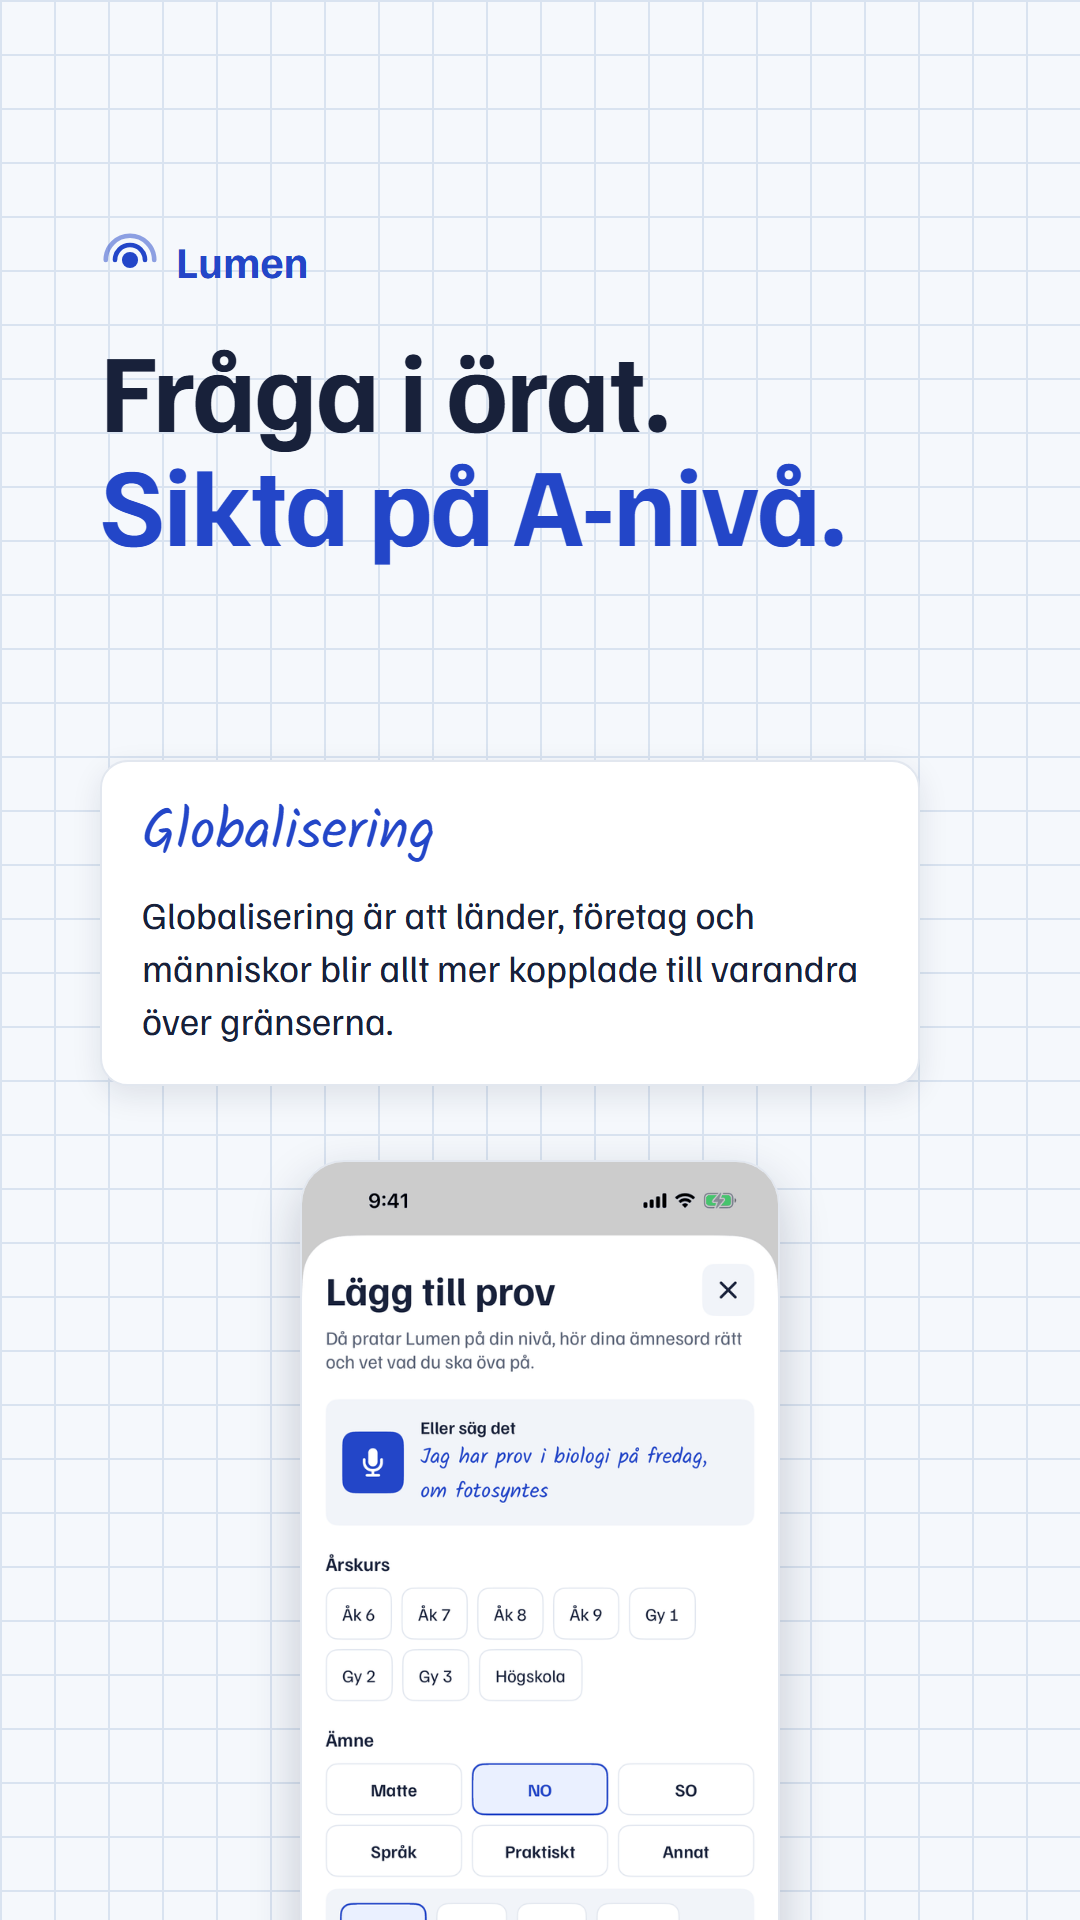
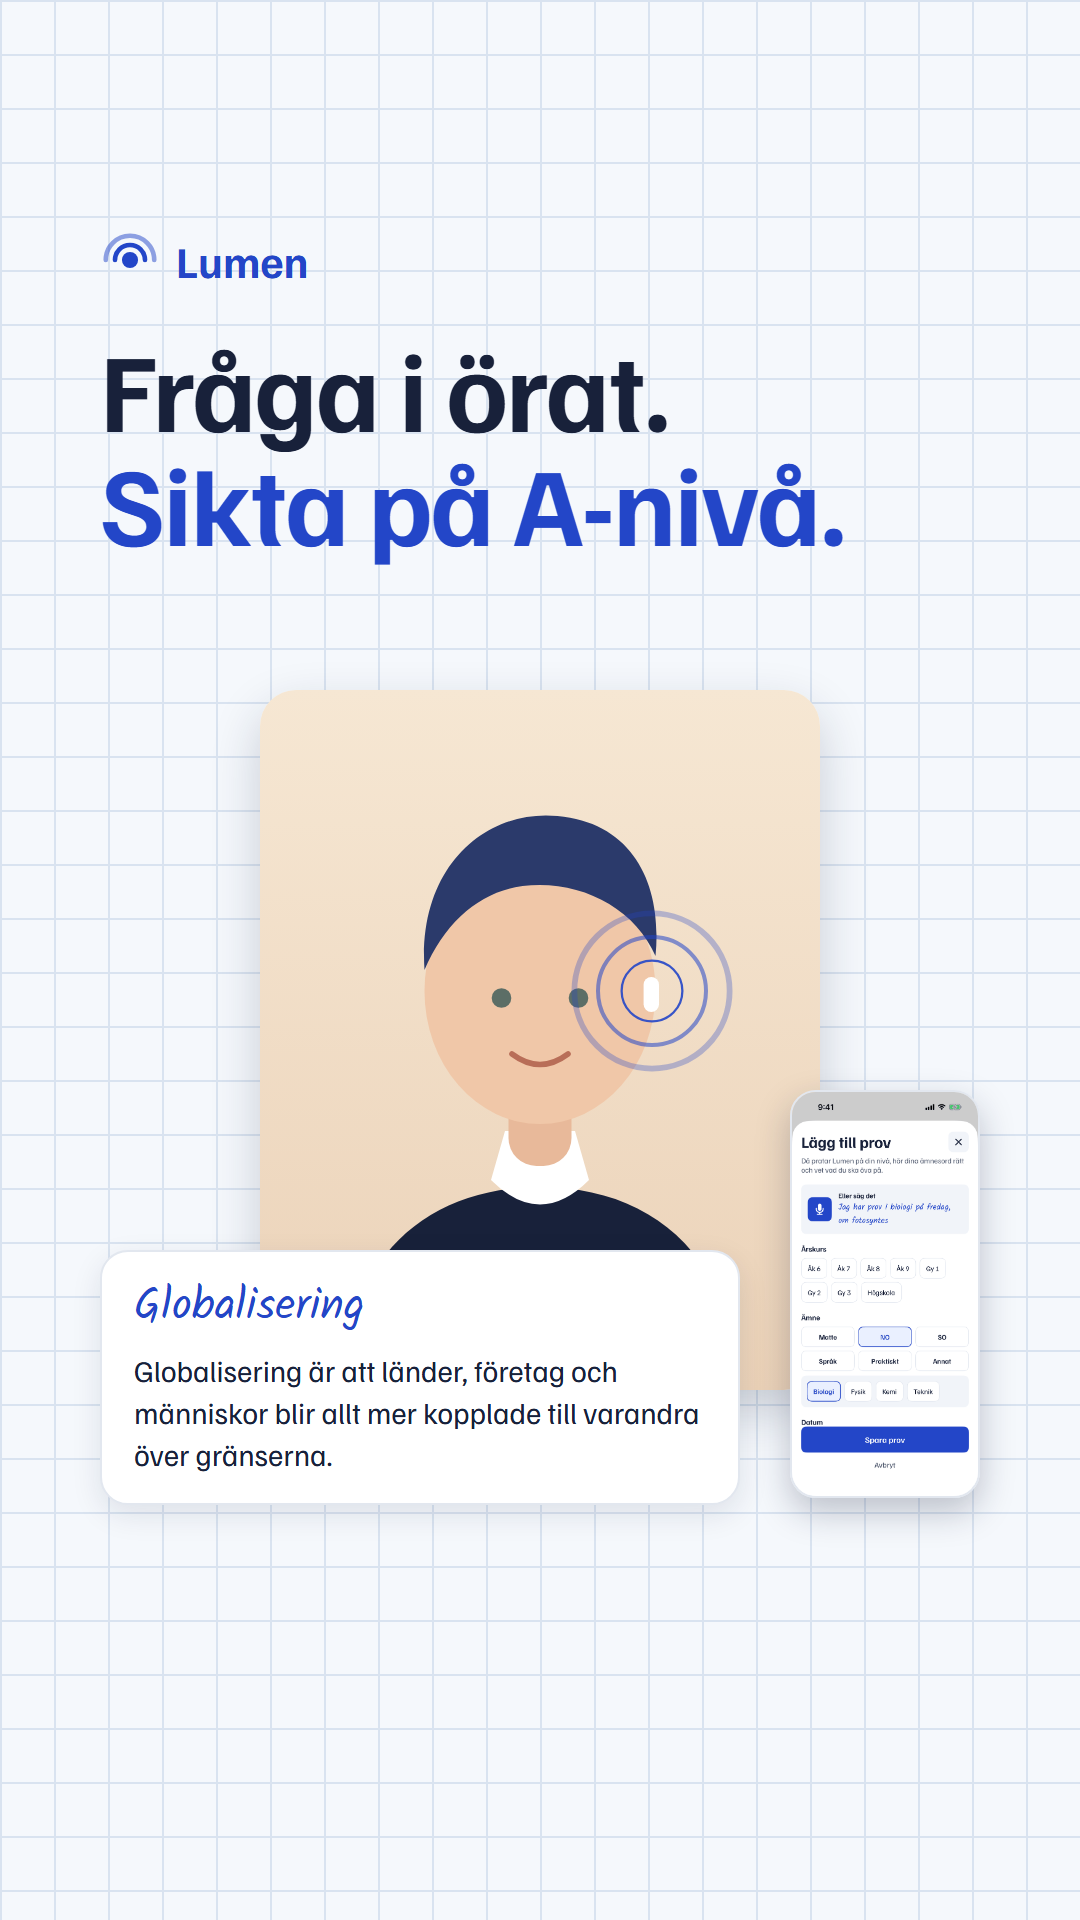
Kelly Ke7: Elias med platshållare (hero med ringar, annonser, OG)

diff --git a/docs/marketing/annonser/_src/ad.html b/docs/marketing/annonser/_src/ad.html
@@ -9,15 +9,20 @@ body{font-family:FG,sans-serif;color:#18213A;background:#F5F8FC;position:relativ
 .logo svg{width:60px;height:60px}
 h1{position:absolute;left:100px;top:330px;width:820px;font-size:112px;line-height:1.02;font-weight:700;letter-spacing:-2px}
 h1 em{font-style:normal;color:#2346C8}
-.card{position:absolute;left:100px;top:760px;width:820px;background:#fff;border:2px solid #E2E7EF;border-radius:28px;padding:36px 40px;box-shadow:0 10px 30px rgba(24,33,58,.10)}
-.q{font-family:Kalam;font-size:56px;line-height:1.25;color:#2346C8}
-.a{margin-top:20px;font-size:38px;line-height:1.4;color:#18213A}
-.ph{position:absolute;left:300px;top:1160px;width:480px;border-radius:44px;border:2px solid #E2E7EF;box-shadow:0 20px 50px rgba(24,33,58,.22);display:block}
+.card{position:absolute;left:100px;top:1250px;width:640px;z-index:2;background:#fff;border:2px solid #E2E7EF;border-radius:28px;padding:28px 32px;box-shadow:0 10px 30px rgba(24,33,58,.10)}
+.q{font-family:Kalam;font-size:44px;line-height:1.25;color:#2346C8}
+.a{margin-top:14px;font-size:30px;line-height:1.4;color:#18213A}
+.el{position:absolute;left:260px;top:690px;width:560px;height:700px;border-radius:36px;overflow:hidden;box-shadow:0 20px 50px rgba(24,33,58,.2)}
+.el img{width:100%;height:100%;object-fit:cover;display:block}
+.rg{position:absolute;left:70%;top:43%}.rg i{position:absolute;left:-70px;top:-70px;width:140px;height:140px;border-radius:50%;border:5px solid #2346C8}
+.rg i:nth-child(1){transform:scale(.45);opacity:.9}.rg i:nth-child(2){transform:scale(.8);opacity:.55}.rg i:nth-child(3){transform:scale(1.15);opacity:.3}
+.ph{position:absolute;left:790px;top:1090px;width:190px;border-radius:26px;border:2px solid #E2E7EF;box-shadow:0 14px 34px rgba(24,33,58,.25);display:block;z-index:3}
 .src{position:absolute;left:100px;top:1470px;width:150px;font-size:26px;color:#5A6478;line-height:1.3}
 .skiss div.box{position:absolute;display:block;border:4px dashed #D9342B;color:#D9342B;font:700 28px FG;padding:6px 10px;z-index:9;background:rgba(217,52,43,.06)}
 </style><body>
 <div class="logo"><svg viewBox="0 0 26 26" fill="none"><circle cx="13" cy="13" r="3.5" fill="currentColor"/><path d="M6.5 13a6.5 6.5 0 0 1 13 0" stroke="currentColor" stroke-width="2" stroke-linecap="round"/><path d="M2.5 13a10.5 10.5 0 0 1 21 0" stroke="currentColor" stroke-width="2" stroke-linecap="round" opacity=".5"/></svg>Lumen</div>
 <h1 id="h"></h1>
+<div class="el"><img id="el"><span class="rg"><i></i><i></i><i></i></span></div>
 <div class="card"><p class="q" id="q"></p><p class="a" id="a"></p></div>
 <img class="ph" id="ph">
 <script>
@@ -26,7 +31,7 @@ const ADS={
 2:{h:'Fråga i örat. <em>Sikta på A-nivå.</em>',q:'Globalisering',a:'Globalisering är att länder, företag och människor blir allt mer kopplade till varandra över gränserna.',img:'s12.png'},
 3:{h:'Plugga utan att <em>titta på skärmen</em>',q:'Vad händer i en näringskedja om rovdjuren försvinner?',a:'Om rovdjuren försvinner från en näringskedja rubbas balansen i hela kedjan.',img:'s47.png'}};
 const p=new URLSearchParams(location.search),n=p.get('n')||1,d=ADS[n];
-h.innerHTML=d.h;q.textContent=d.q;a.textContent=d.a;ph.src=d.img;
+h.innerHTML=d.h;q.textContent=d.q;a.textContent=d.a;ph.src=d.img;el.src=p.get('real')?'elias-frilagd.png':'elias-placeholder.svg';
 if(p.get('skiss')){document.body.classList.add('skiss');
  for(const [id,l] of [['h','Rubrik 820×~340, Familjen Grotesk 112 px'],['q','Fråga, Kalam 56 px'],['a','Svar, 38 px, citat ur D87-svar']]){const r=document.getElementById(id).getBoundingClientRect();const b=document.createElement('div');b.className='box';b.style.cssText=`left:${r.left-8}px;top:${r.top-8}px;width:${r.width+16}px;height:${r.height+16}px`;const t=document.createElement('span');t.textContent=l;t.style.cssText='position:absolute;left:0;top:-44px;background:#fff;padding:2px 8px;white-space:nowrap';b.appendChild(t);b.style.background='none';document.body.appendChild(b)}
  const z=document.createElement('div');z.className='box';z.style.cssText='left:0;top:1520px;width:1080px;height:400px;color:#5A6478;border-color:#5A6478';z.textContent='Videoflödets egna knappar och text täcker nedre 400 px (säker zon: inga viktiga texter här)';document.body.appendChild(z)}

diff --git a/site/index.html b/site/index.html
@@ -218,6 +218,18 @@
   .photo svg { width: 28px; height: 28px; }
   .photo span { max-width: 30ch; }
 
+  /* Ke7: Elias med ringar från hörluren. */
+  .elias { position: relative; margin: 0 auto; width: min(100%, 360px); aspect-ratio: 4 / 5; border-radius: 18px; overflow: hidden; background: var(--chip); border: 1px solid var(--line); }
+  .elias img { display: block; width: 100%; height: 100%; object-fit: cover; }
+  .rings { position: absolute; left: var(--ex); top: var(--ey); width: 0; height: 0; }
+  .rings i { position: absolute; left: -60px; top: -60px; width: 120px; height: 120px; border-radius: 50%; border: 3px solid #2346C8; opacity: 0; transform: scale(.15); }
+  @media (prefers-reduced-motion: no-preference) {
+    .rings i { animation: ering 3.6s cubic-bezier(.23,1,.32,1) infinite; }
+    .rings i:nth-child(2) { animation-delay: .35s; } .rings i:nth-child(3) { animation-delay: .7s; }
+    @keyframes ering { 0% { opacity: 0; transform: scale(.15); } 12% { opacity: .9; } 55%, 100% { opacity: 0; transform: scale(1.6); } }
+  }
+  @media (prefers-reduced-motion: reduce) { .rings i { opacity: .55; } .rings i:nth-child(1) { transform: scale(.3); } .rings i:nth-child(2) { transform: scale(.6); opacity: .35; } .rings i:nth-child(3) { transform: scale(.9); opacity: .2; } }
+
   /* ---------- Demorutan ---------- */
   .demo {
     display: grid;
@@ -571,7 +583,7 @@
     }
     .intro { grid-column: 1; grid-row: 1; }
     .points { grid-column: 1; grid-row: 2; }
-    .photo { grid-column: 1; grid-row: 3; min-height: 280px; }
+    .elias { grid-column: 1; grid-row: 3; margin: 0; width: min(100%, 420px); }
     .demo { grid-column: 2; grid-row: 1 / span 3; align-self: start; position: sticky; top: 24px; padding: 26px 26px 28px; gap: 20px; }
     h1 { font-size: clamp(3.75rem, 6.2vw, 5.5rem); }
     .pitch { font-size: 1.5rem; margin-top: 16px; }
@@ -701,10 +713,10 @@
       <li><svg viewBox="0 0 24 24" fill="none" stroke="currentColor" stroke-width="2.2" stroke-linecap="round" stroke-linejoin="round" aria-hidden="true"><path d="M4 12.5l5 5L20 6.5"/></svg><span>Inget konto. Börja direkt.</span></li>
     </ul>
 
-    <!-- Platshållare: byt mot ett foto med fri licens, utan varumärken i bild. -->
-    <figure class="photo" role="img" aria-label="Platshållare för foto">
-      <svg viewBox="0 0 24 24" fill="none" stroke="currentColor" stroke-width="1.6" stroke-linecap="round" stroke-linejoin="round" aria-hidden="true"><rect x="3" y="5" width="18" height="14" rx="2"/><circle cx="8.5" cy="10" r="1.5"/><path d="M21 16l-5-5-8 8"/></svg>
-      <span>Foto: person med trådlösa hörlurar på väg någonstans, telefonen i fickan. Fri licens, inga varumärken i bild.</span>
+    <!-- Ke7: Elias. Byt src mot img/elias.webp (frilagd bild, 4:5) när den finns; --ex/--ey är hörlurens plats i procent av bilden. -->
+    <figure class="elias" style="--ex:70%;--ey:43%">
+      <img src="img/elias-placeholder.svg" width="800" height="1000" alt="Elias, 17 år, med en vit trådlös hörlur i örat. Illustration, ingen verklig person.">
+      <span class="rings" aria-hidden="true"><i></i><i></i><i></i></span>
     </figure>
   </section>
 

diff --git a/docs/marketing/annonser/_src/og.html b/docs/marketing/annonser/_src/og.html
@@ -1,0 +1,13 @@
+<!doctype html><meta charset="utf-8"><style>
+@font-face{font-family:FG;src:url(familjen-grotesk.woff2);font-weight:400 700}
+*{margin:0;box-sizing:border-box}html,body{width:1200px;height:630px;overflow:hidden}
+body{font-family:FG;color:#18213A;background:#F5F8FC;position:relative;background-image:linear-gradient(#D9E3F0 2px,transparent 2px),linear-gradient(90deg,#D9E3F0 2px,transparent 2px);background-size:42px 42px}
+.l{position:absolute;left:70px;top:70px;display:flex;gap:14px;align-items:center;font-weight:700;font-size:40px;color:#2346C8}.l svg{width:54px;height:54px}
+h1{position:absolute;left:70px;top:200px;width:620px;font-size:92px;line-height:1.02;letter-spacing:-2px}h1 em{font-style:normal;color:#2346C8}
+.el{position:absolute;right:0;top:0;width:504px;height:630px;overflow:hidden}.el img{width:100%;height:100%;object-fit:cover}
+.rg{position:absolute;left:70%;top:43%}.rg i{position:absolute;left:-60px;top:-60px;width:120px;height:120px;border-radius:50%;border:5px solid #2346C8}
+.rg i:nth-child(1){transform:scale(.45)}.rg i:nth-child(2){transform:scale(.8);opacity:.55}.rg i:nth-child(3){transform:scale(1.15);opacity:.3}
+</style><body><div class="l"><svg viewBox="0 0 26 26" fill="none"><circle cx="13" cy="13" r="3.5" fill="currentColor"/><path d="M6.5 13a6.5 6.5 0 0 1 13 0" stroke="currentColor" stroke-width="2" stroke-linecap="round"/><path d="M2.5 13a10.5 10.5 0 0 1 21 0" stroke="currentColor" stroke-width="2" stroke-linecap="round" opacity=".5"/></svg>Lumen</div>
+<h1>Fråga högt. <em>Få svaret i örat.</em></h1>
+<div class="el"><img id="el"><span class="rg"><i></i><i></i><i></i></span></div>
+<script>el.src=location.search.includes('real')?'elias-frilagd.png':'elias-placeholder.svg'</script></body>

diff --git a/prompts/queue/kelly.md b/prompts/queue/kelly.md
@@ -25,7 +25,7 @@ Aron (2026-11-08): demosidan måste bli väldigt bra.
 
 - [x] klar 2026-11-09 19:45 → reports/2026-11-09-1940-kelly-ke6-annonser.md **Ke6 – Tre annonsbilder för korta videoflöden** (effort: medium). Gör 3 stillbilder, 1080×1920 (TikTok, Snapchat, Reels), i `docs/marketing/annonser/`, i sidans stil (rutpapper, handstil). Använd riktiga skärmbilder från T3 och en riktig fråga och ett riktigt svar från D87-körningen. Svensk text till högstadie- och gymnasieelever, med en vinkel per bild: "Bli förhörd inför provet", "Fråga i örat, få A-nivåsvaret", "Plugga utan att titta på skärmen". Regler: inga påståenden om svarstid i sekunder, inget om funktioner som inte är testade på telefon, inget om fusk på prov, och ingen verklig person. Bilderna ska vara PNG på högst 500 kB och ha en skiss för textrutorna. Aron väljer själv vilka som används.
 
-- [~] pågår 2026-11-09 21:00 **Ke7 – Annonserna och demosidan med karaktären Elias** (effort: medium). Läs `docs/marketing/karaktar.md`. Aron har valt en egen figur i varm, stiliserad 3D. Den frilagda bilden kommer i `docs/marketing/elias-frilagd.png` (Deangelo lägger in den).
+- [~] pågår, byggd med platshållare 2026-11-09 21:20 (väntar på docs/marketing/elias-frilagd.png; rapport reports/2026-11-09-2120-kelly-ke7-elias.md) **Ke7 – Annonserna och demosidan med karaktären Elias** (effort: medium). Läs `docs/marketing/karaktar.md`. Aron har valt en egen figur i varm, stiliserad 3D. Den frilagda bilden kommer i `docs/marketing/elias-frilagd.png` (Deangelo lägger in den).
   1. Gör om Ke6:s tre annonsbilder med Elias i stället för skärmbilder som huvudmotiv. Skärmbilden får vara kvar som en mindre detalj.
   2. Lägg Elias i demosidans hero med de blå ringarna som CSS-animation från hörluren, som i appens intro. "Reducera rörelse" ska respekteras.
   3. Gör en ny delningsbild (1200×630) med Elias.

diff --git a/prompts/queue/BOARD.md b/prompts/queue/BOARD.md
@@ -15,4 +15,4 @@ Kolumnerna:
 | Angela (app) | Opus 5.5 (claude-opus-5-5, bekräftat) | low (sessionens inställning) | A9.2–3 (app_command med ångra, inlärda inställningar i Minne, K10) → A14 → A13 | jobbar | A12 klar, grönt i CI 42678968025. I dag: A8, A6, A7, A10, A11, A9.1, A12; ej på enhet | 2026-11-09 20:52 |
 | Oscar (QA) | Opus 5.5 (bekräftat) | high (bekräftat) | O10 | O10 pågår: oberoende test av K10 (appkommandon, rätta en gång) och K8 (färre begränsningar) | O9 klar: K9-kommandon rätt task 90/93, 0/15 falska träffar | 2026-11-09 20:05 |
 | Toby (apptest) | Opus 5.5 (claude-opus-5-5, bekräftat) | high | T5 (omtest efter A8 och A11: Frågor, Provläge, långt keyterm, T2 60 min igen) | jobbar | T6 klar: 485/541 kommandon rätt i 5 lägen, 5 falska träffar av 68 ("Lumen" mitt i en mening), 6 fynd till Angela | 2026-11-09 20:05 |
-| Kelly (demosida) | Sonnet 5.5 | medium | Ke7 (Elias, platshållare tills bilden finns) | jobbar | Ke6 klar: 3 annonsbilder 1080×1920 (160–200 kB) + skisser, riktiga svar och T3-bilder; Aron väljer | 2026-11-09 19:45 |
+| Kelly (demosida) | Sonnet 5.5 | medium | Ke7 klar med platshållare, väntar på elias-frilagd.png | väntar på bild | Ke7: Elias i hero med ringar, 3 annonser omgjorda, ny OG (alla med platshållare). Lighthouse mobil 99, dator 100 | 2026-11-09 21:20 |

diff --git a/reports/2026-11-09-2120-kelly-ke7-elias.md b/reports/2026-11-09-2120-kelly-ke7-elias.md
@@ -1,0 +1,8 @@
+# Kelly Ke7: Elias (byggd med platshållare)
+`docs/marketing/elias-frilagd.png` finns inte än, så allt är byggt med en platshållare (`site/img/elias-placeholder.svg`, 4:5, enkel illustration, ingen riktig bild).
+- **Demosidan:** Elias i heron (ersätter fotoplatshållaren), tre blå ringar som CSS-animation från hörluren (3,6 s, upprepas), stilla ringar vid "reducera rörelse". Byte: ändra `src` i `<figure class="elias">` till `img/elias.webp` och justera `--ex/--ey` (hörlurens plats i %).
+- **Annonser:** `docs/marketing/annonser/lumen-annons-1..3.png` (+ `-skiss.png`) omgjorda med Elias som huvudmotiv och skärmbilden som liten detalj (165/159/160 kB). Re-rendera med `_src/ad.html?n=1|2|3&real=1` när bilden ligger i `_src/elias-frilagd.png`.
+- **Delningsbild:** `site/og-elias-platshallare.png` (1200×630). Den används inte än, `og.png` ligger kvar tills den riktiga bilden finns (`_src/og.html?real=1`, byt sedan og-taggarna).
+- **Lighthouse (lokalt):** mobil 99/100/100/100, dator 100/100/100/100.
+Provat: skärmbild dator, annonserna visuellt. Mobil hero och mörkt läge ej granskade i detalj (untested).
+**Nästa:** när Deangelo lägger in bilden: byt, kör om de tre renderingarna och OG, mät om.
